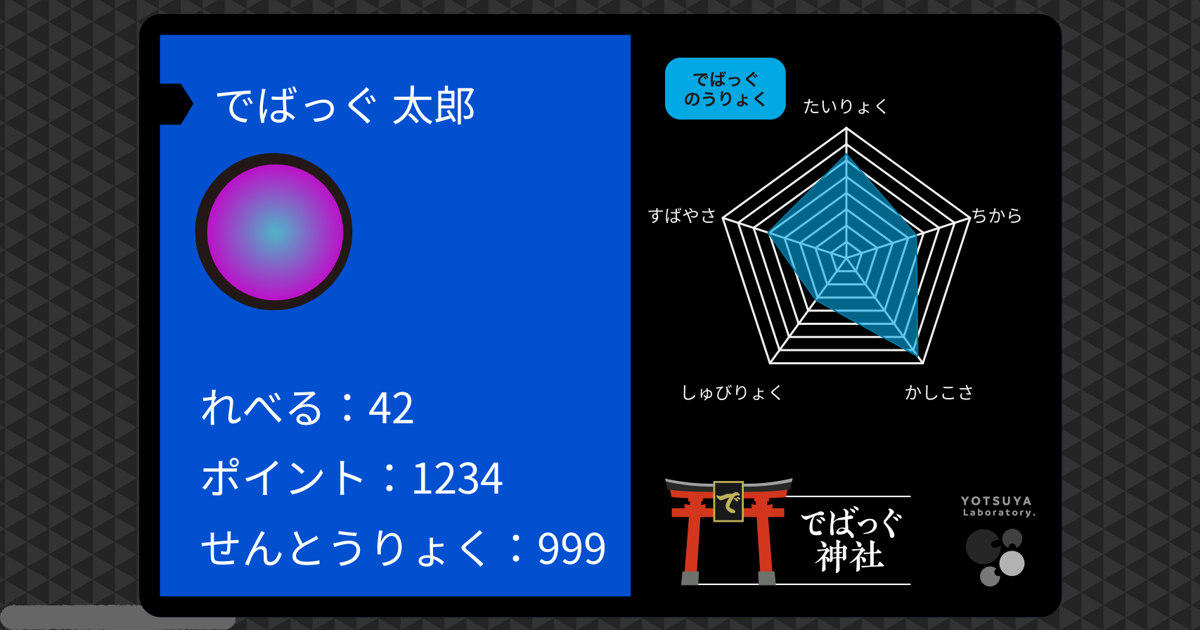
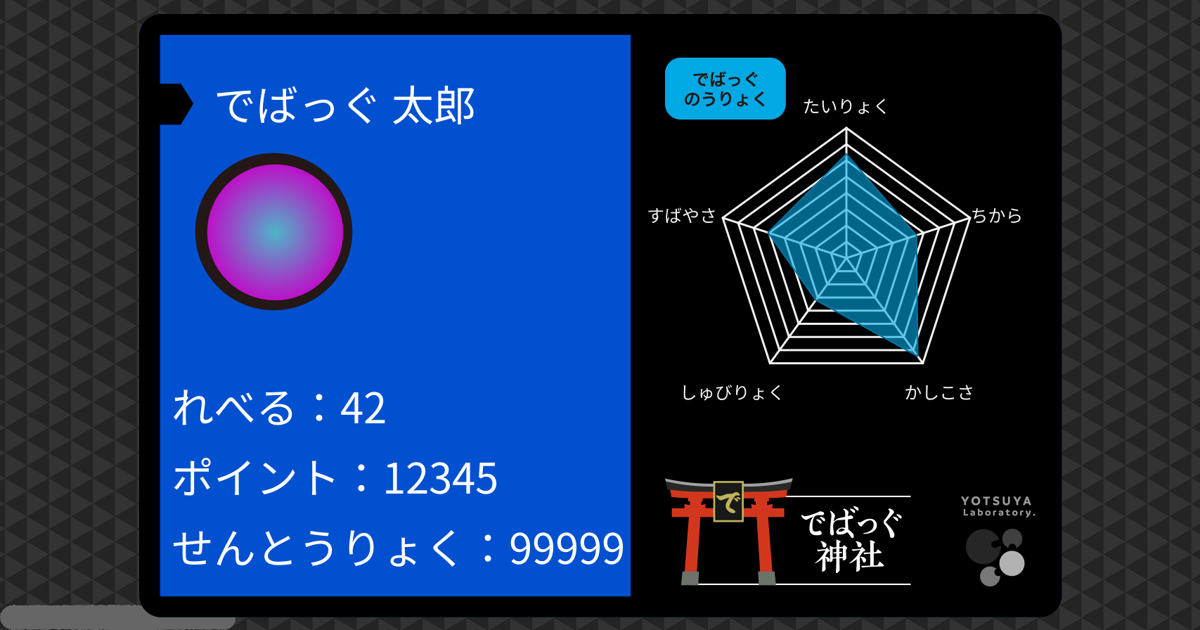
fix(ogpimage): ステータス行を左へ寄せ+上限幅ガードで大きい値のはみ出し防止
- 青パネル(ステータス行)の右端は実測 design x≈1292、幅668と狭く、せんとうりょく等が
  大きい値だと右端をはみ出す
- statsX を 680→640 に左寄せし、上限幅ガード(statsMaxWidth=650)を追加。
  せんとうりょく：99999(645px)は縮小なしで収まり、6桁など上限超過値のみ横縮小する
- QCサンプルを大きい値(ポイント12345/せんとうりょく99999)に更新し収まりを検証

Changed region(s): [[0.1233, 0.8444, 0.5242, 0.9048], [0.1233, 0.6032, 0.3392, 0.6937], [0.1542, 0.7238, 0.4317, 0.7841]]

diff --git a/app/functions-go/internal/ogpimage/ogpimage.go b/app/functions-go/internal/ogpimage/ogpimage.go
@@ -56,8 +56,14 @@ const (
 	avatarY    = 431.0
 	avatarSize = 215.0
 
-	statsX = 680.0
-	statsY = 740.0
+	// ステータス3行。左パネル(青)のステータス行の右端は実測で design x≈1292、左端は624。
+	// せんとうりょく等が大きい値(例: 99999)でも右端をはみ出さないよう、開始位置を
+	// 左へ寄せ(680→640)、さらに上限幅ガードを設ける。
+	// 「せんとうりょく：99999」=645px は縮小なしで収まり、6桁など上限を超える値のみ
+	// canvasのfillText(maxWidth)と同様に横方向へ縮小する。
+	statsX        = 640.0
+	statsMaxWidth = 650.0 // 640 + 650 = 1290 ≦ パネル右端1292
+	statsY        = 740.0
 
 	// チャート(chartPost + chartWidth/Height=550)。中心はボックス中央。
 	chartCenterX = 1325.0 + 550.0/2.0 // 1600
@@ -188,7 +194,7 @@ func Render(p Params) (image.Image, error) {
 		fmt.Sprintf("せんとうりょく：%d", p.Total),
 	}
 	for i, line := range stats {
-		drawTextTopScaled(dc, nameFace, line, statsX*scale, (statsY+lineHeight*float64(i))*scale, 0)
+		drawTextTopScaled(dc, nameFace, line, statsX*scale, (statsY+lineHeight*float64(i))*scale, statsMaxWidth*scale)
 	}
 
 	// レーダーチャート

diff --git a/app/functions-go/internal/ogpimage/ogpimage_test.go b/app/functions-go/internal/ogpimage/ogpimage_test.go
@@ -33,8 +33,8 @@ func sampleParams() Params {
 		DisplayName:  "でばっぐ 太郎",
 		Avatar:       syntheticAvatar(460),
 		Level:        42,
-		Points:       1234,
-		Total:        999,
+		Points:       12345,
+		Total:        99999,
 		HP:           120,
 		Power:        85,
 		Intelligence: 140,